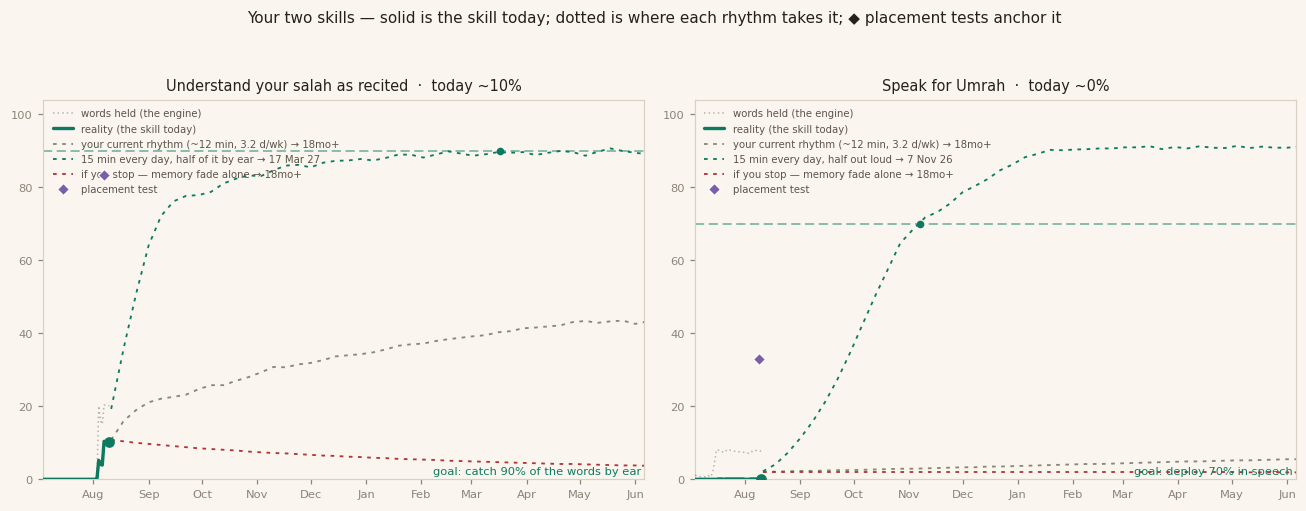
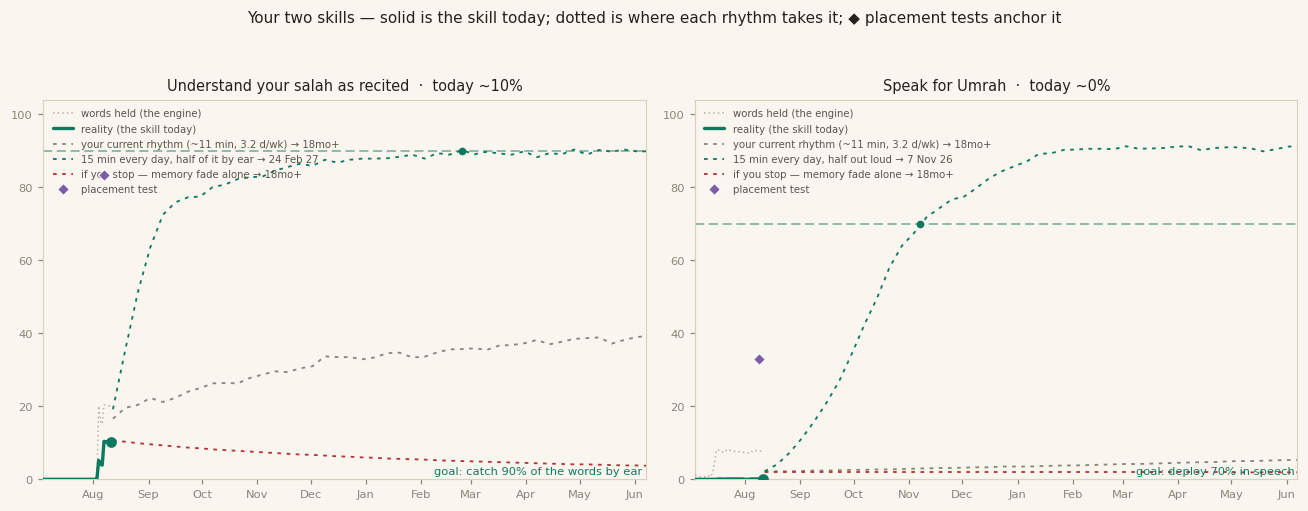
Fix: finishing the phrase drill now ticks the plan block (Reza's 08-09 pen note)
The phrases block had an empty done-event list, so drill-done/fill-done
never completed it — the plan kept asking after he had done the drill.
Now accepts both, matching the homework block.

Nightly progress regen included.

diff --git a/js/plan.js b/js/plan.js
@@ -57,7 +57,7 @@ const PLAN_BLOCKS = {
   salah:     { icon: "📖", title: c => `Surah ${c} — word by word`, sub: "The salah basket: meaning mapped onto sound you already recite.", url: c => `quran.html?s=${c}`, page: "quran", done: ["qtest-part", "qtest-done", "qlisten-test"] },
   speakdrill:{ icon: "🎤", title: () => "Speak round — mic on", sub: "Say them out loud. Spoken practice is the only thing that moves the speaking line.", url: "speaking.html", page: "speaking", done: ["drill-done", "prompt"] },
   sentences: { icon: "✍", title: () => "Build 5 sentences", sub: "Conjugate and produce — I/we/they across the tenses.", url: "sentences.html", page: "sentences", done: ["spract-done"] },
-  phrases:   { icon: "💬", title: c => "Phrases out loud — " + c, sub: "Whole sentences you'll actually say. Read each ALOUD before revealing.", url: c => `vocab.html?ph=${c}&mode=drill`, page: "vocab", done: [] },
+  phrases:   { icon: "💬", title: c => "Phrases out loud — " + c, sub: "Whole sentences you'll actually say. Read each ALOUD before revealing.", url: c => `vocab.html?ph=${c}&mode=drill`, page: "vocab", done: ["drill-done", "fill-done"] },
   ptest:     { icon: "🎯", title: () => "5-minute listening test", sub: "A measurement, not a drill — it anchors your chart and corrects the forecast.", url: "placement.html", page: "placement", done: ["ptest-listen"] },
   homework:  { icon: "📚", title: () => "Teacher homework", sub: "", url: "vocab.html?view=lessons", page: "vocab", done: ["fill-done", "drill-done", "sheet-done"] }, // display fields overridden in planMakeBlock
   exam:      { icon: "🎤", title: () => "Oral exam (via any AI)", sub: "Ten minutes with an AI examiner — the score anchors your speaking line.", url: "converse.html?exam=1", page: "converse", done: ["ptest-speak"] },

diff --git a/placement.html b/placement.html
@@ -8,8 +8,8 @@
   <link rel="icon" href="icons/icon-192.png">
   <link rel="apple-touch-icon" href="icons/icon-192.png">
   <title>Listening Placement — Arabic Through Stories</title>
-  <link rel="stylesheet" href="css/fonts.css?v=msmjphcd">
-  <link rel="stylesheet" href="css/style.css?v=msmjphcd">
+  <link rel="stylesheet" href="css/fonts.css?v=msp3qut7">
+  <link rel="stylesheet" href="css/style.css?v=msp3qut7">
   <style>
     .pl-opt { display:block; width:100%; text-align:left; margin-top:8px; padding:10px 14px; border-radius:12px; font-size:14.5px; line-height:1.5; }
     .pl-opt.ok { background: var(--accent-soft); border-color: var(--accent); }
@@ -31,10 +31,10 @@
   </div>
 </main>
 
-<script src="js/app.js?v=msmjphcd"></script>
-<script src="js/tracker.js?v=msmjphcd"></script>
-<script src="js/plan.js?v=msmjphcd"></script>
-<script src="js/progress-model.js?v=msmjphcd"></script>
+<script src="js/app.js?v=msp3qut7"></script>
+<script src="js/tracker.js?v=msp3qut7"></script>
+<script src="js/plan.js?v=msp3qut7"></script>
+<script src="js/progress-model.js?v=msp3qut7"></script>
 <script>
 renderNav("placement");
 trackPage("placement");

diff --git a/index.html b/index.html
@@ -8,8 +8,8 @@
   <link rel="icon" href="icons/icon-192.png">
   <link rel="apple-touch-icon" href="icons/icon-192.png">
   <title>Arabic Through Stories — العربية بالقصص</title>
-  <link rel="stylesheet" href="css/fonts.css?v=msmjphcd">
-  <link rel="stylesheet" href="css/style.css?v=msmjphcd">
+  <link rel="stylesheet" href="css/fonts.css?v=msp3qut7">
+  <link rel="stylesheet" href="css/style.css?v=msp3qut7">
 </head>
 <body>
 <main>
@@ -121,10 +121,10 @@
 </main>
 <footer>Audio uses your browser's built-in Arabic voice (best in Edge or Chrome). · <a href="keyboard.html">Phonetic keyboard tool</a></footer>
 
-<script src="js/app.js?v=msmjphcd"></script>
-<script src="js/tracker.js?v=msmjphcd"></script>
-<script src="js/plan.js?v=msmjphcd"></script>
-<script src="js/progress-model.js?v=msmjphcd"></script>
+<script src="js/app.js?v=msp3qut7"></script>
+<script src="js/tracker.js?v=msp3qut7"></script>
+<script src="js/plan.js?v=msp3qut7"></script>
+<script src="js/progress-model.js?v=msp3qut7"></script>
 <script>
 renderNav("home");
 trackPage("dashboard");

diff --git a/vocab.html b/vocab.html
@@ -8,8 +8,8 @@
   <link rel="icon" href="icons/icon-192.png">
   <link rel="apple-touch-icon" href="icons/icon-192.png">
   <title>Vocab Lab — Arabic Through Stories</title>
-  <link rel="stylesheet" href="css/fonts.css?v=msmjphcd">
-  <link rel="stylesheet" href="css/style.css?v=msmjphcd">
+  <link rel="stylesheet" href="css/fonts.css?v=msp3qut7">
+  <link rel="stylesheet" href="css/style.css?v=msp3qut7">
   <style>
     .fam-grid { display: grid; grid-template-columns: repeat(auto-fill, minmax(220px, 1fr)); gap: 14px; }
     .fam-card {
@@ -56,9 +56,9 @@
   <div id="kbDock"></div>
 </main>
 
-<script src="js/app.js?v=msmjphcd"></script>
-<script src="js/tracker.js?v=msmjphcd"></script>
-<script src="js/plan.js?v=msmjphcd"></script>
+<script src="js/app.js?v=msp3qut7"></script>
+<script src="js/tracker.js?v=msp3qut7"></script>
+<script src="js/plan.js?v=msp3qut7"></script>
 <script>
 renderNav(new URLSearchParams(location.search).get("view") === "lessons" ? "lessons" : "vocab");
 

diff --git a/converse.html b/converse.html
@@ -8,8 +8,8 @@
   <link rel="icon" href="icons/icon-192.png">
   <link rel="apple-touch-icon" href="icons/icon-192.png">
   <title>Conversation Partner — Arabic Through Stories</title>
-  <link rel="stylesheet" href="css/fonts.css?v=msmjphcd">
-  <link rel="stylesheet" href="css/style.css?v=msmjphcd">
+  <link rel="stylesheet" href="css/fonts.css?v=msp3qut7">
+  <link rel="stylesheet" href="css/style.css?v=msp3qut7">
   <style>
     .cv-steps { display: grid; gap: 10px; margin: 8px 0 2px; }
     .cv-step { display: flex; gap: 10px; align-items: flex-start; font-size: 14.5px; }
@@ -35,9 +35,9 @@
   <div id="content">Loading…</div>
 </main>
 
-<script src="js/app.js?v=msmjphcd"></script>
-<script src="js/tracker.js?v=msmjphcd"></script>
-<script src="js/plan.js?v=msmjphcd"></script>
+<script src="js/app.js?v=msp3qut7"></script>
+<script src="js/tracker.js?v=msp3qut7"></script>
+<script src="js/plan.js?v=msp3qut7"></script>
 <script>
 renderNav("converse");
 trackPage("converse");

diff --git a/test.html b/test.html
@@ -8,8 +8,8 @@
   <link rel="icon" href="icons/icon-192.png">
   <link rel="apple-touch-icon" href="icons/icon-192.png">
   <title>Milestone Test — Arabic Through Stories</title>
-  <link rel="stylesheet" href="css/fonts.css?v=msmjphcd">
-  <link rel="stylesheet" href="css/style.css?v=msmjphcd">
+  <link rel="stylesheet" href="css/fonts.css?v=msp3qut7">
+  <link rel="stylesheet" href="css/style.css?v=msp3qut7">
   <style>
     .t-row td { padding: 8px 10px; border-bottom: 1px solid var(--border); }
     .t-prompt-ar { font-family: var(--font-ar); font-size: 26px; direction: rtl; text-align: right; }
@@ -25,9 +25,9 @@
   <div id="kbDock"></div>
 </main>
 
-<script src="js/app.js?v=msmjphcd"></script>
-<script src="js/tracker.js?v=msmjphcd"></script>
-<script src="js/plan.js?v=msmjphcd"></script>
+<script src="js/app.js?v=msp3qut7"></script>
+<script src="js/tracker.js?v=msp3qut7"></script>
+<script src="js/plan.js?v=msp3qut7"></script>
 <script>
 renderNav("");
 trackPage("test");

diff --git a/speaking.html b/speaking.html
@@ -8,8 +8,8 @@
   <link rel="icon" href="icons/icon-192.png">
   <link rel="apple-touch-icon" href="icons/icon-192.png">
   <title>Speaking — Arabic Through Stories</title>
-  <link rel="stylesheet" href="css/fonts.css?v=msmjphcd">
-  <link rel="stylesheet" href="css/style.css?v=msmjphcd">
+  <link rel="stylesheet" href="css/fonts.css?v=msp3qut7">
+  <link rel="stylesheet" href="css/style.css?v=msp3qut7">
   <style>
     .chips { display: flex; gap: 6px; flex-wrap: wrap; margin-bottom: 12px; }
     .chips button { border-radius: 999px; font-size: 13px; padding: 5px 12px; }
@@ -49,9 +49,9 @@
   </div>
 </main>
 
-<script src="js/app.js?v=msmjphcd"></script>
-<script src="js/tracker.js?v=msmjphcd"></script>
-<script src="js/plan.js?v=msmjphcd"></script>
+<script src="js/app.js?v=msp3qut7"></script>
+<script src="js/tracker.js?v=msp3qut7"></script>
+<script src="js/plan.js?v=msp3qut7"></script>
 <script>
 renderNav("speaking");
 trackPage("speaking");

diff --git a/quran.html b/quran.html
@@ -8,8 +8,8 @@
   <link rel="icon" href="icons/icon-192.png">
   <link rel="apple-touch-icon" href="icons/icon-192.png">
   <title>Quran — Arabic Through Stories</title>
-  <link rel="stylesheet" href="css/fonts.css?v=msmjphcd">
-  <link rel="stylesheet" href="css/style.css?v=msmjphcd">
+  <link rel="stylesheet" href="css/fonts.css?v=msp3qut7">
+  <link rel="stylesheet" href="css/style.css?v=msp3qut7">
   <style>
     .verse-block { border-bottom: 1px dashed var(--border); padding: 18px 0; }
     .verse-block:last-child { border-bottom: none; }
@@ -46,9 +46,9 @@
   <div id="content">Loading…</div>
 </main>
 
-<script src="js/app.js?v=msmjphcd"></script>
-<script src="js/tracker.js?v=msmjphcd"></script>
-<script src="js/plan.js?v=msmjphcd"></script>
+<script src="js/app.js?v=msp3qut7"></script>
+<script src="js/tracker.js?v=msp3qut7"></script>
+<script src="js/plan.js?v=msp3qut7"></script>
 <script>
 renderNav("quran");
 trackPage("quran");

diff --git a/grammar.html b/grammar.html
@@ -8,8 +8,8 @@
   <link rel="icon" href="icons/icon-192.png">
   <link rel="apple-touch-icon" href="icons/icon-192.png">
   <title>Grammar — Arabic Through Stories</title>
-  <link rel="stylesheet" href="css/fonts.css?v=msmjphcd">
-  <link rel="stylesheet" href="css/style.css?v=msmjphcd">
+  <link rel="stylesheet" href="css/fonts.css?v=msp3qut7">
+  <link rel="stylesheet" href="css/style.css?v=msp3qut7">
   <style>
     .g-grid { display: grid; grid-template-columns: repeat(auto-fill, minmax(230px, 1fr)); gap: 14px; }
     .g-card {
@@ -34,9 +34,9 @@
   <div id="kbDock"></div>
 </main>
 
-<script src="js/app.js?v=msmjphcd"></script>
-<script src="js/tracker.js?v=msmjphcd"></script>
-<script src="js/plan.js?v=msmjphcd"></script>
+<script src="js/app.js?v=msp3qut7"></script>
+<script src="js/tracker.js?v=msp3qut7"></script>
+<script src="js/plan.js?v=msp3qut7"></script>
 <script>
 renderNav("grammar");
 trackPage("grammar");

diff --git a/sentences.html b/sentences.html
@@ -8,8 +8,8 @@
   <link rel="icon" href="icons/icon-192.png">
   <link rel="apple-touch-icon" href="icons/icon-192.png">
   <title>Sentence Practice — Arabic Through Stories</title>
-  <link rel="stylesheet" href="css/fonts.css?v=msmjphcd">
-  <link rel="stylesheet" href="css/style.css?v=msmjphcd">
+  <link rel="stylesheet" href="css/fonts.css?v=msp3qut7">
+  <link rel="stylesheet" href="css/style.css?v=msp3qut7">
   <style>
     .sp-chips { display: flex; gap: 8px; flex-wrap: wrap; margin: 6px 0 4px; }
     .sp-chip {
@@ -37,9 +37,9 @@
   <div id="kbDock"></div>
 </main>
 
-<script src="js/app.js?v=msmjphcd"></script>
-<script src="js/tracker.js?v=msmjphcd"></script>
-<script src="js/plan.js?v=msmjphcd"></script>
+<script src="js/app.js?v=msp3qut7"></script>
+<script src="js/tracker.js?v=msp3qut7"></script>
+<script src="js/plan.js?v=msp3qut7"></script>
 <script>
 renderNav("sentences");
 trackPage("sentences");

diff --git a/audio.html b/audio.html
@@ -8,8 +8,8 @@
   <link rel="icon" href="icons/icon-192.png">
   <link rel="apple-touch-icon" href="icons/icon-192.png">
   <title>Audio Coach — Arabic Through Stories</title>
-  <link rel="stylesheet" href="css/fonts.css?v=msmjphcd">
-  <link rel="stylesheet" href="css/style.css?v=msmjphcd">
+  <link rel="stylesheet" href="css/fonts.css?v=msp3qut7">
+  <link rel="stylesheet" href="css/style.css?v=msp3qut7">
   <style>
     .ac-stage {
       text-align: center; padding: 26px 16px 30px; border-radius: 18px;
@@ -38,9 +38,9 @@
   <div id="content">Loading…</div>
 </main>
 
-<script src="js/app.js?v=msmjphcd"></script>
-<script src="js/tracker.js?v=msmjphcd"></script>
-<script src="js/plan.js?v=msmjphcd"></script>
+<script src="js/app.js?v=msp3qut7"></script>
+<script src="js/tracker.js?v=msp3qut7"></script>
+<script src="js/plan.js?v=msp3qut7"></script>
 <script>
 renderNav("audio");
 trackPage("audio");

diff --git a/review.html b/review.html
@@ -8,8 +8,8 @@
   <link rel="icon" href="icons/icon-192.png">
   <link rel="apple-touch-icon" href="icons/icon-192.png">
   <title>Daily Review — Arabic Through Stories</title>
-  <link rel="stylesheet" href="css/fonts.css?v=msmjphcd">
-  <link rel="stylesheet" href="css/style.css?v=msmjphcd">
+  <link rel="stylesheet" href="css/fonts.css?v=msp3qut7">
+  <link rel="stylesheet" href="css/style.css?v=msp3qut7">
 </head>
 <body>
 <main>
@@ -20,9 +20,9 @@
   </div>
 </main>
 
-<script src="js/app.js?v=msmjphcd"></script>
-<script src="js/tracker.js?v=msmjphcd"></script>
-<script src="js/plan.js?v=msmjphcd"></script>
+<script src="js/app.js?v=msp3qut7"></script>
+<script src="js/tracker.js?v=msp3qut7"></script>
+<script src="js/plan.js?v=msp3qut7"></script>
 <script>
 renderNav("review");
 trackPage("review");
